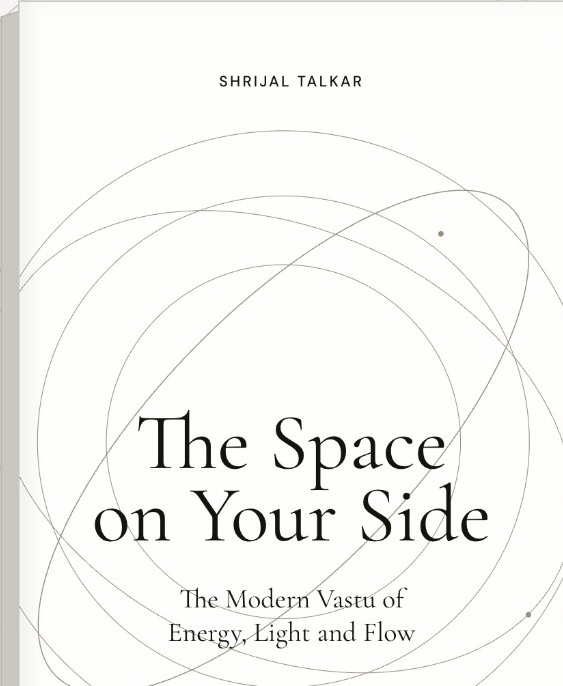
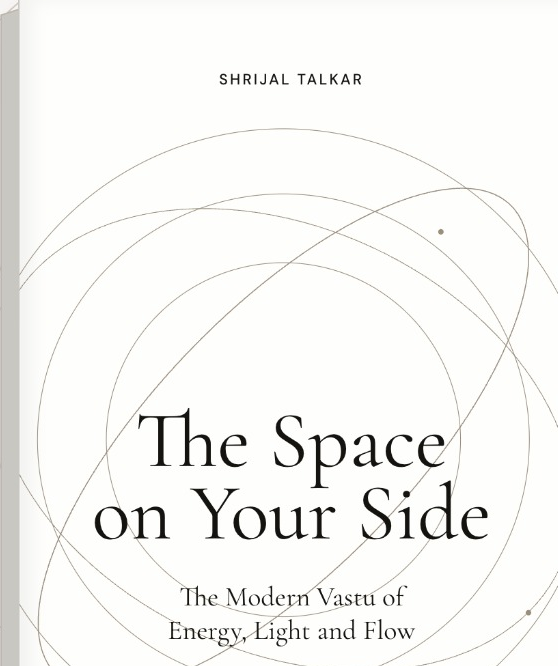
fix: make book orbit circle large (1050px) and clearly visible around book with clean cropped mockup

diff --git a/app/page.jsx b/app/page.jsx
@@ -542,8 +542,8 @@ export default function Home() {
       </section>
 
       {/* 9. Section 8: The Space on Your Side (Book) */}
-      <section className="section" id="book">
-        <div className="container">
+      <section className="section" id="book" style={{ position: 'relative', overflow: 'hidden' }}>
+        <div className="container" style={{ position: 'relative', zIndex: 2 }}>
           <div className="book-grid">
             <div className="book-content">
               <h2 className="large-section-title">
@@ -579,18 +579,25 @@ export default function Home() {
               </button>
             </div>
 
-            <div className="book-mockup-frame" style={{ position: 'relative' }}>
+            <div className="book-mockup-frame" style={{ position: 'relative', display: 'flex', justifyContent: 'center', alignItems: 'center' }}>
               <OrbitGraphic
-                size={800}
-                style={{ top: '50%', left: '50%', transform: 'translate(-50%, -50%)' }}
-                opacity={0.5}
+                size={1050}
+                style={{
+                  top: '50%',
+                  left: '50%',
+                  transform: 'translate(-50%, -50%)',
+                  pointerEvents: 'none',
+                  maxWidth: 'none',
+                  maxHeight: 'none'
+                }}
+                opacity={0.85}
               />
               <Image
                 src="/images/book-mockup.png"
                 alt="The Space on Your Side by Shrijal Talkar"
-                width={550}
-                height={620}
-                style={{ display: 'block', width: '100%', maxWidth: '480px', height: 'auto', position: 'relative', zIndex: 2 }}
+                width={558}
+                height={666}
+                style={{ display: 'block', width: '100%', maxWidth: '440px', height: 'auto', position: 'relative', zIndex: 2 }}
               />
             </div>
           </div>
